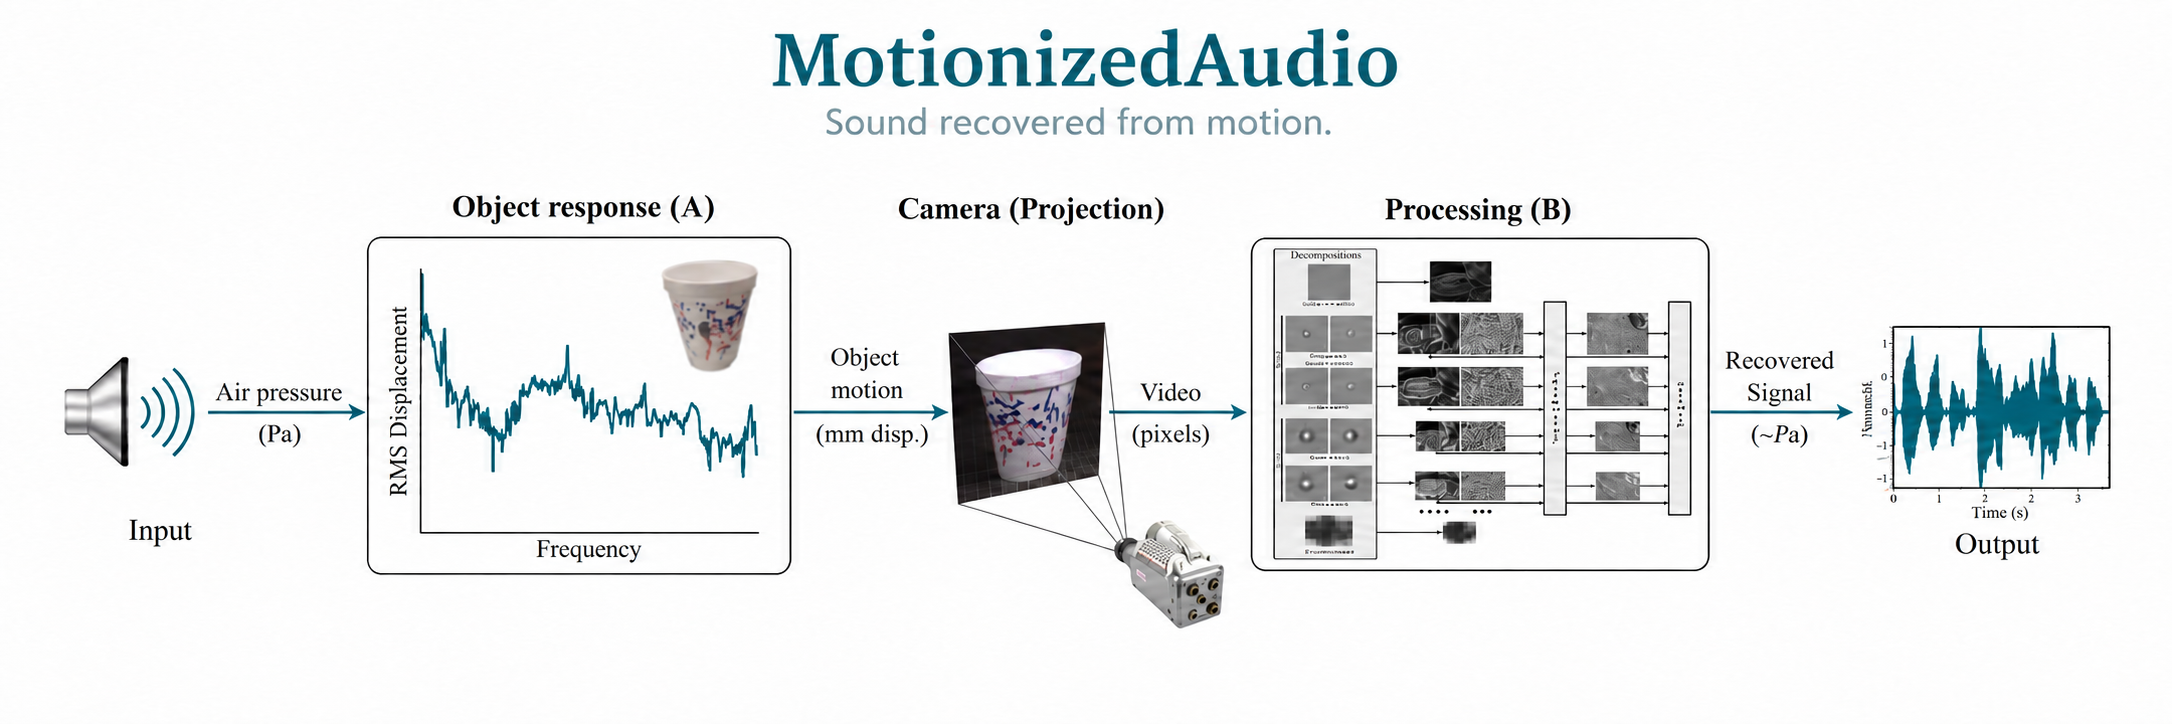
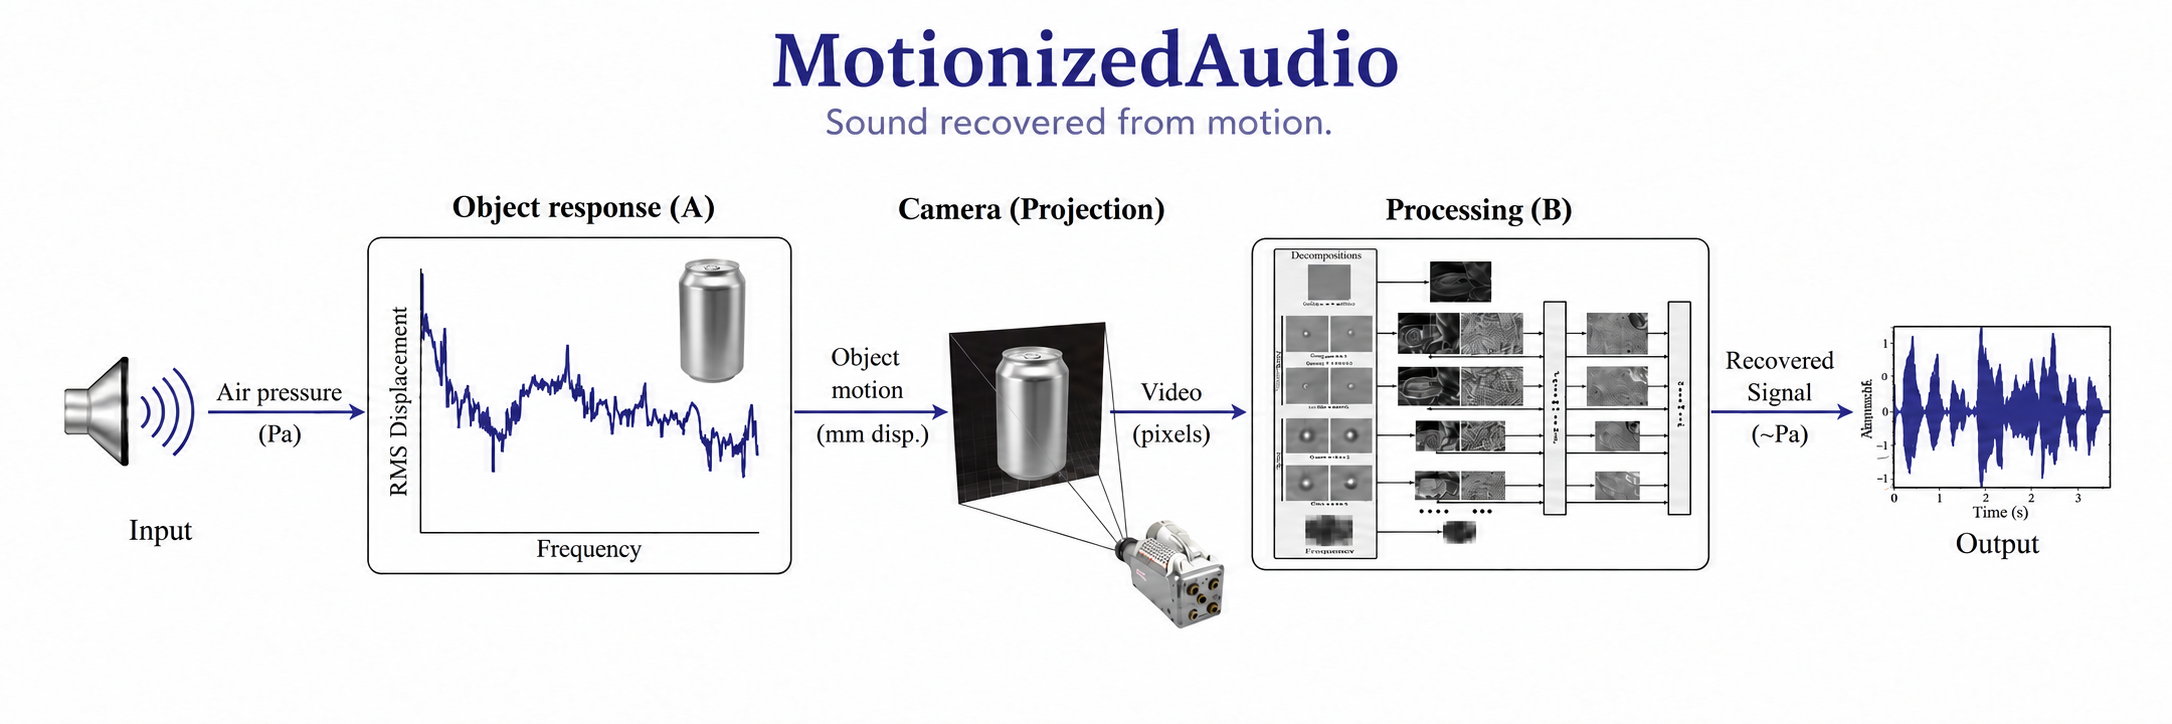
Refresh pipeline illustration and clarify local Git development

diff --git a/VERIFICATION.md b/VERIFICATION.md
@@ -33,3 +33,7 @@ downloaded. CUDA processing was not executed because no NVIDIA GPU is
 available on this Mac. Docker builds were not run locally. CI retains the
 CPU/GPU container build checks and now also runs the CPU regression tests.
 The restyled illustration is explanatory artwork, not experimental evidence.
+
+## Visual refresh verification
+
+The illustration retains the light scientific-pipeline layout, replaces the cup with an unbranded silver can, and uses indigo accents. It is explanatory artwork, not evidence of a new can experiment. The numerical source and CLI code were unchanged. After this update, the CPU suite again passed 28 tests, with 7 CUDA tests skipped; Ruff passed.

diff --git a/README.md b/README.md
@@ -1,6 +1,6 @@
 # MotionizedAudio
 
-**Development history:** Developed locally before publication. These repositories were uploaded together, so their GitHub publication dates do not indicate when development began.
+**Development history:** Developed locally using Git before publication. These projects were published to GitHub together, so similar upload dates do not indicate when development began.
 
 **Hear the motion. Recover sound from video.**
 
